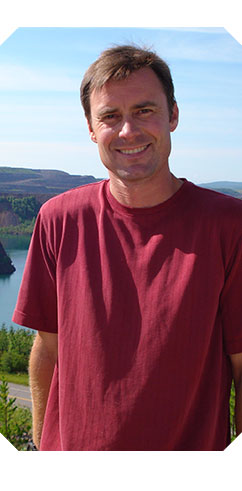
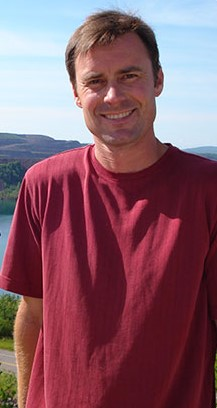
philosphy

diff --git a/components/homepage/Philosophy.js b/components/homepage/Philosophy.js
@@ -3,19 +3,23 @@ import SectionHeading from '../utils/SectionHeading';
 
 const Philosophy = () => {
 	return (
-		<div className='text-gray-500 grid prose font-long text-center'>
-			<p className='text-lg  md:text-xl px-3'>
-				We create your landscape with a{' '}
-				<span className='text-landscape-700 '>naturalistic style </span>that
-				will inspire a sense of{' '}
-				<span className='text-landscape-700 '>calm </span>in those who
-				experience it. The landscape should provide highly restorative garden
-				views from inside the building and develop a desire to explore the
-				outdoor space. The ideal landscape will <span className="text-landscape-700">connect</span> the indoor and outdoor
-				spaces into a well used living space that captures your imagination and
-				gives you a sense of{' '}
-				<span className='text-landscape-700'> serenity</span>.
-			</p>
+		<div className="grid md:grid-cols-2 justify-items-center items-center">
+			<h1 className="font-logo text-4xl text-landscape-700 hidden md:block">Philosphy</h1>
+			<div className='text-gray-500 grid prose font-long '>
+				<p className='text-base  md:text-xl px-3'>
+					We create your landscape with a{' '}
+					<span className='text-landscape-700 '>naturalistic style </span>that
+					will inspire a sense of{' '}
+					<span className='text-landscape-700 '>calm </span>in those who
+					experience it. The landscape should provide highly restorative garden
+					views from inside the building and develop a desire to explore the
+					outdoor space. The ideal landscape will{' '}
+					<span className='text-landscape-700'>connect</span> the indoor and
+					outdoor spaces into a well used living space that captures your
+					imagination and gives you a sense of{' '}
+					<span className='text-landscape-700'> serenity</span>.
+				</p>
+			</div>
 		</div>
 	);
 };

diff --git a/pages/services/index.js b/pages/services/index.js
@@ -7,19 +7,19 @@ import { services } from '../../data/services';
 const Services = () => {
 	return (
 		<>
-			<div className='grid  sm:gap-16  col-span-2 '>
+			<div className='grid sm:gap-16 col-span-2 mb-12'>
 				<PageHeading title='Services' />
-				<div className="max-w-5xl mx-auto">
-				{services.map((service) => (
-					<div key={service.title}>
-						<Service
-							title={service.title}
-							image={service.image}
-							description={service.description}
-						/>
-					</div>
-				))}
-			</div>
+				<div className='max-w-5xl mx-auto'>
+					{services.map((service) => (
+						<div key={service.title}>
+							<Service
+								title={service.title}
+								image={service.image}
+								description={service.description}
+							/>
+						</div>
+					))}
+				</div>
 			</div>
 		</>
 	);

diff --git a/data/whyUs.js b/data/whyUs.js
@@ -7,7 +7,7 @@ export const background = {
 	],
 	image: '/images/scott.jpg',
 	about:
-		'Worked in the horticulture, nursery and landscap industry since the 1980s.  Lived in Portland Oregon for several years learning the art of Japanese Gardens.  Worked with experienced Japanese garden builders in Portland.',
+		'Worked in the horticulture, nursery and landscape industry since the 1980s.  Lived in Portland Oregon for several years learning the art of Japanese Gardens.  Worked with experienced Japanese garden builders in Portland.',
 	organizations: [
 		{
 			organization: 'M.N.L.A',

diff --git a/components/carousel/Carousel.js b/components/carousel/Carousel.js
@@ -3,11 +3,11 @@ import { carouselImages } from '../../data/carouselImages';
 
 const Carousel = () => {
 	return (
-		<div className='grid md:grid-cols-2 gap-4'>
+		<div className='grid md:grid-cols-2 gap-4 md:justify-items-center'>
 			{carouselImages.map((image) => (
 				<div
 					key={image.src}
-					className='shadow-md grid gap-7 justify-items-center place-content-center p-3 pb-8 m-4 sm:m-0 border border-gray-500 border-opacity-30'
+					className=' grid gap-7 place-content-center pb-8 sm:m-0 md:px-2'
 				>
 					<Image
 						alt={image.src}

diff --git a/components/whyus/Intro.js b/components/whyus/Intro.js
@@ -31,14 +31,17 @@ const Intro = ({
 					</div>
 				</div>
 			</div>
-			<div className='self-center'>
-				<Image
-					src={image}
-					alt={alt}
-					height={300}
-					width={200}
-					layout='intrinsic'
-				/>
+			<div className='self-center p-2 shadow-lg grid italic'>
+				<span>
+					<Image
+						src={image}
+						alt={alt}
+						height={300}
+						width={200}
+						layout='intrinsic'
+					/>
+				</span>
+				<span className="text-center text-gray-500">Scott</span>
 			</div>
 		</div>
 	);
